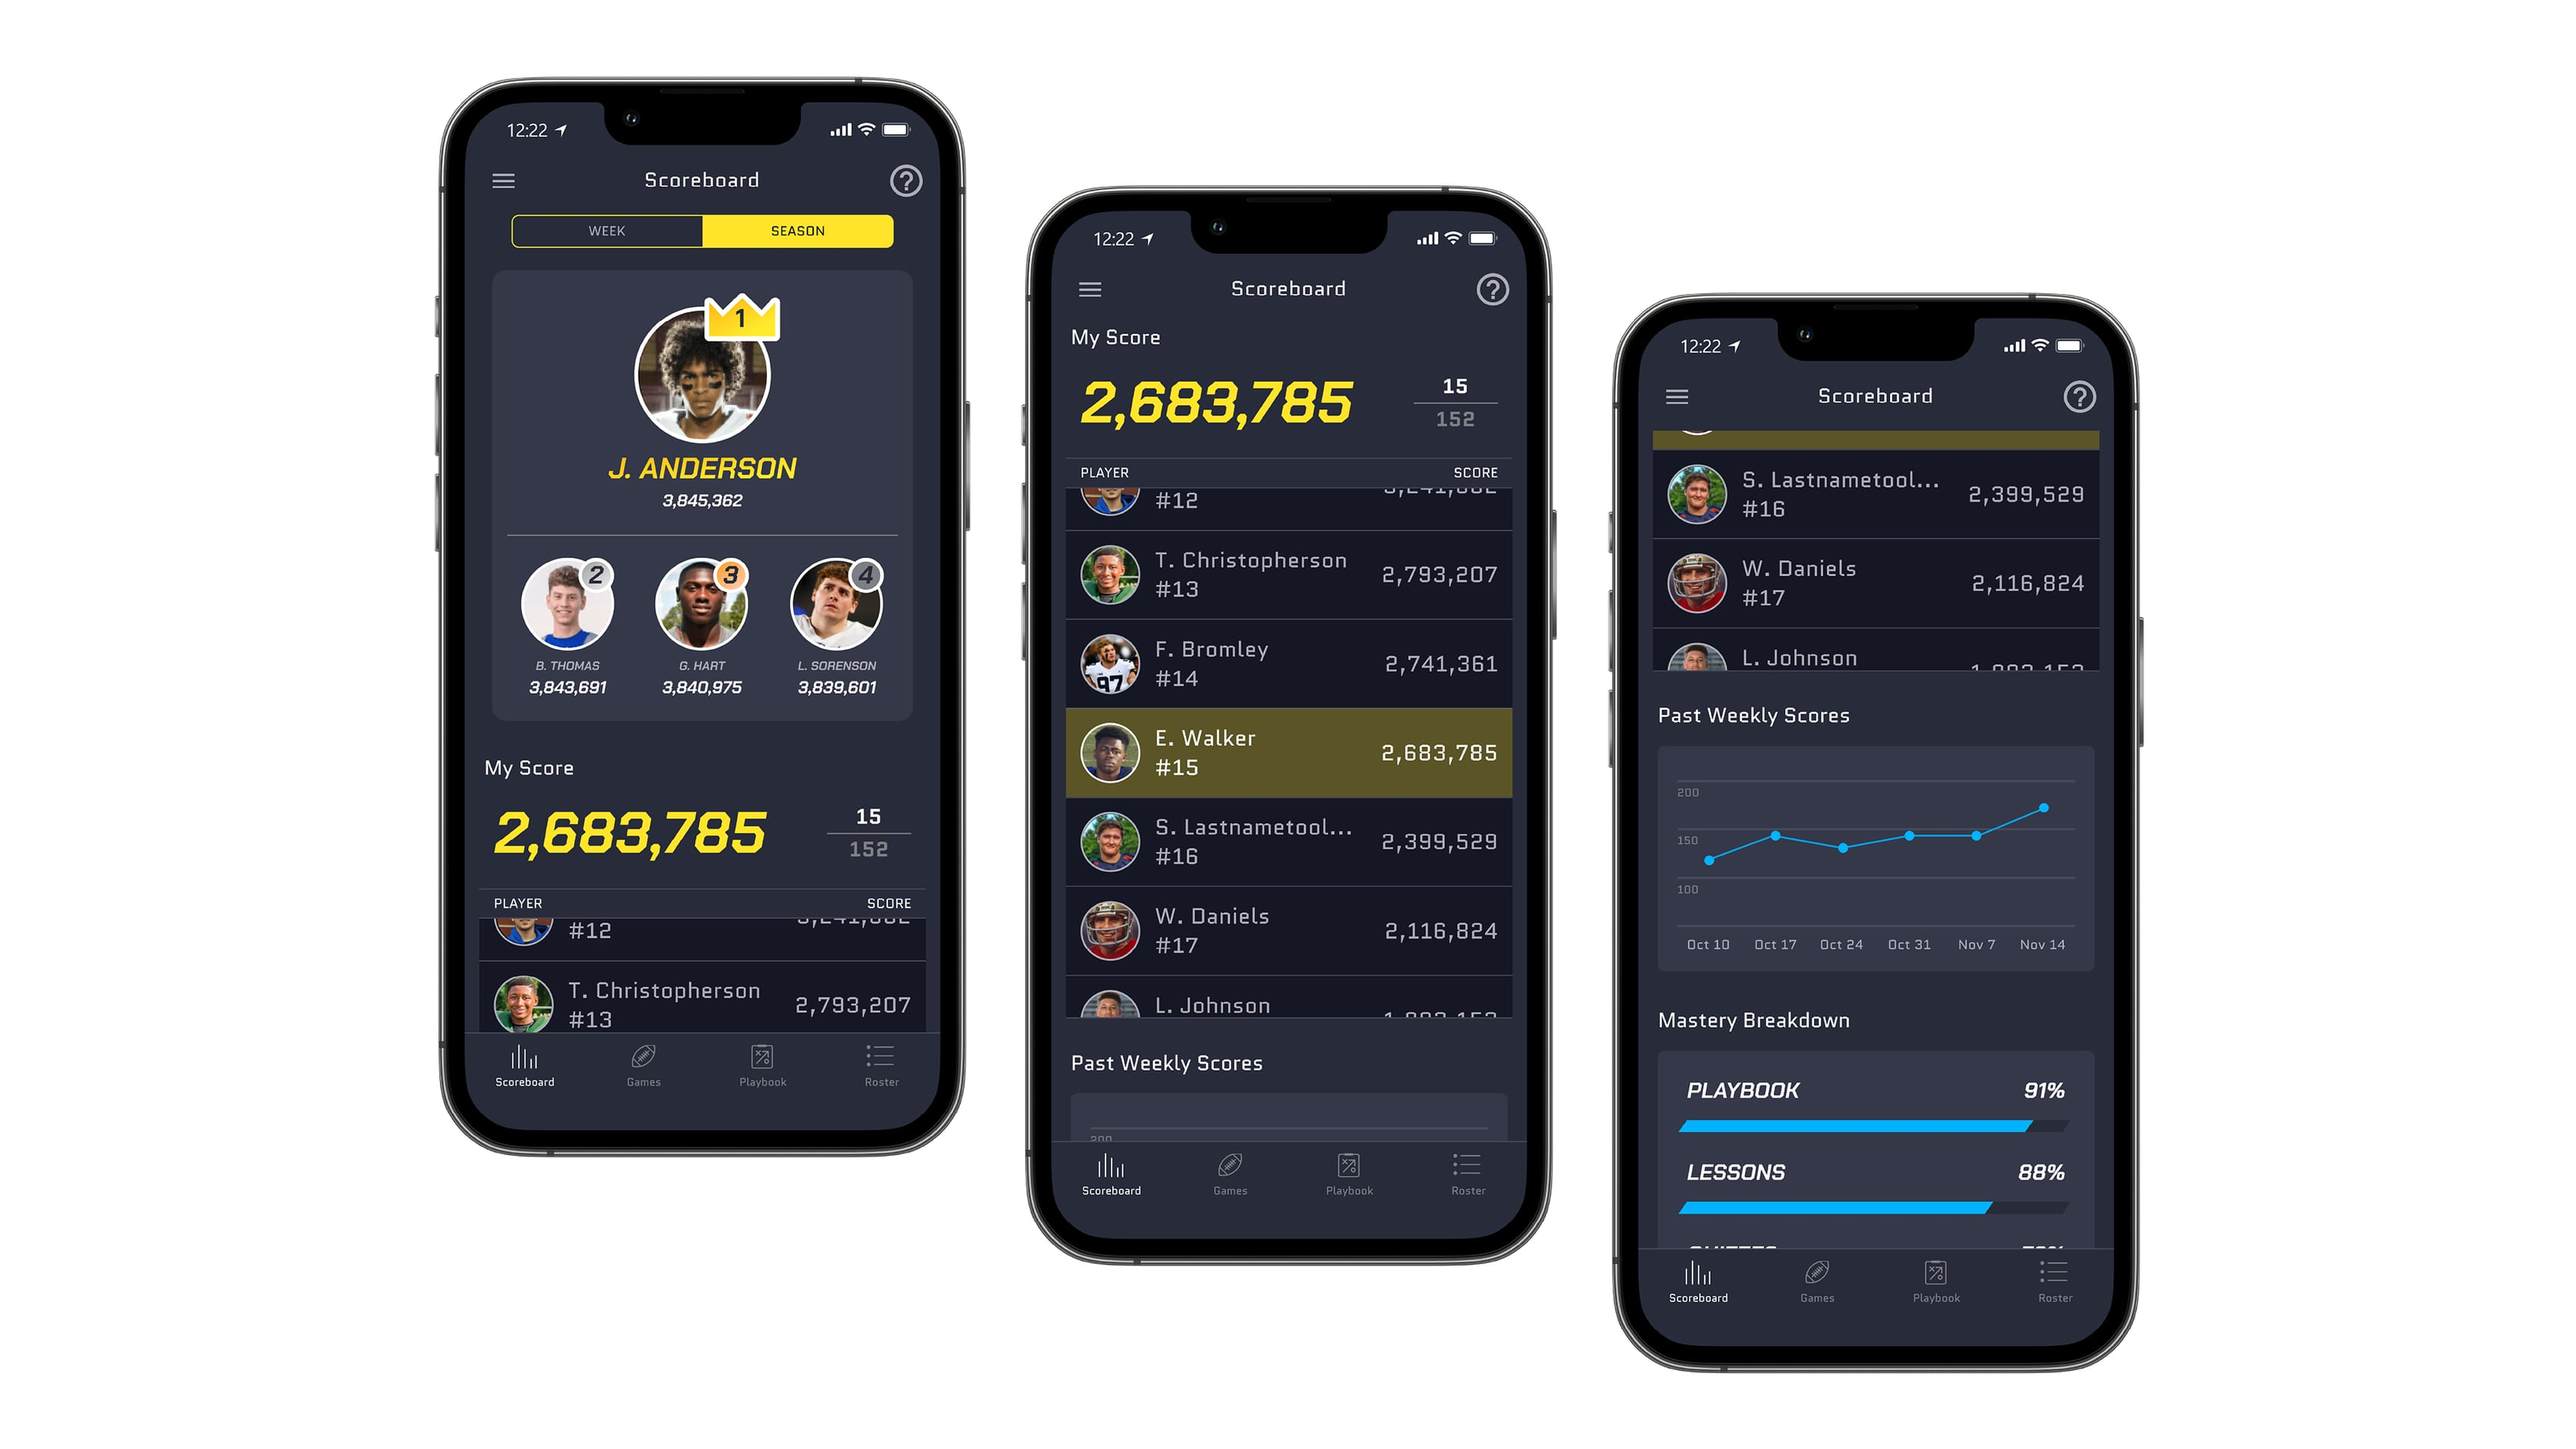
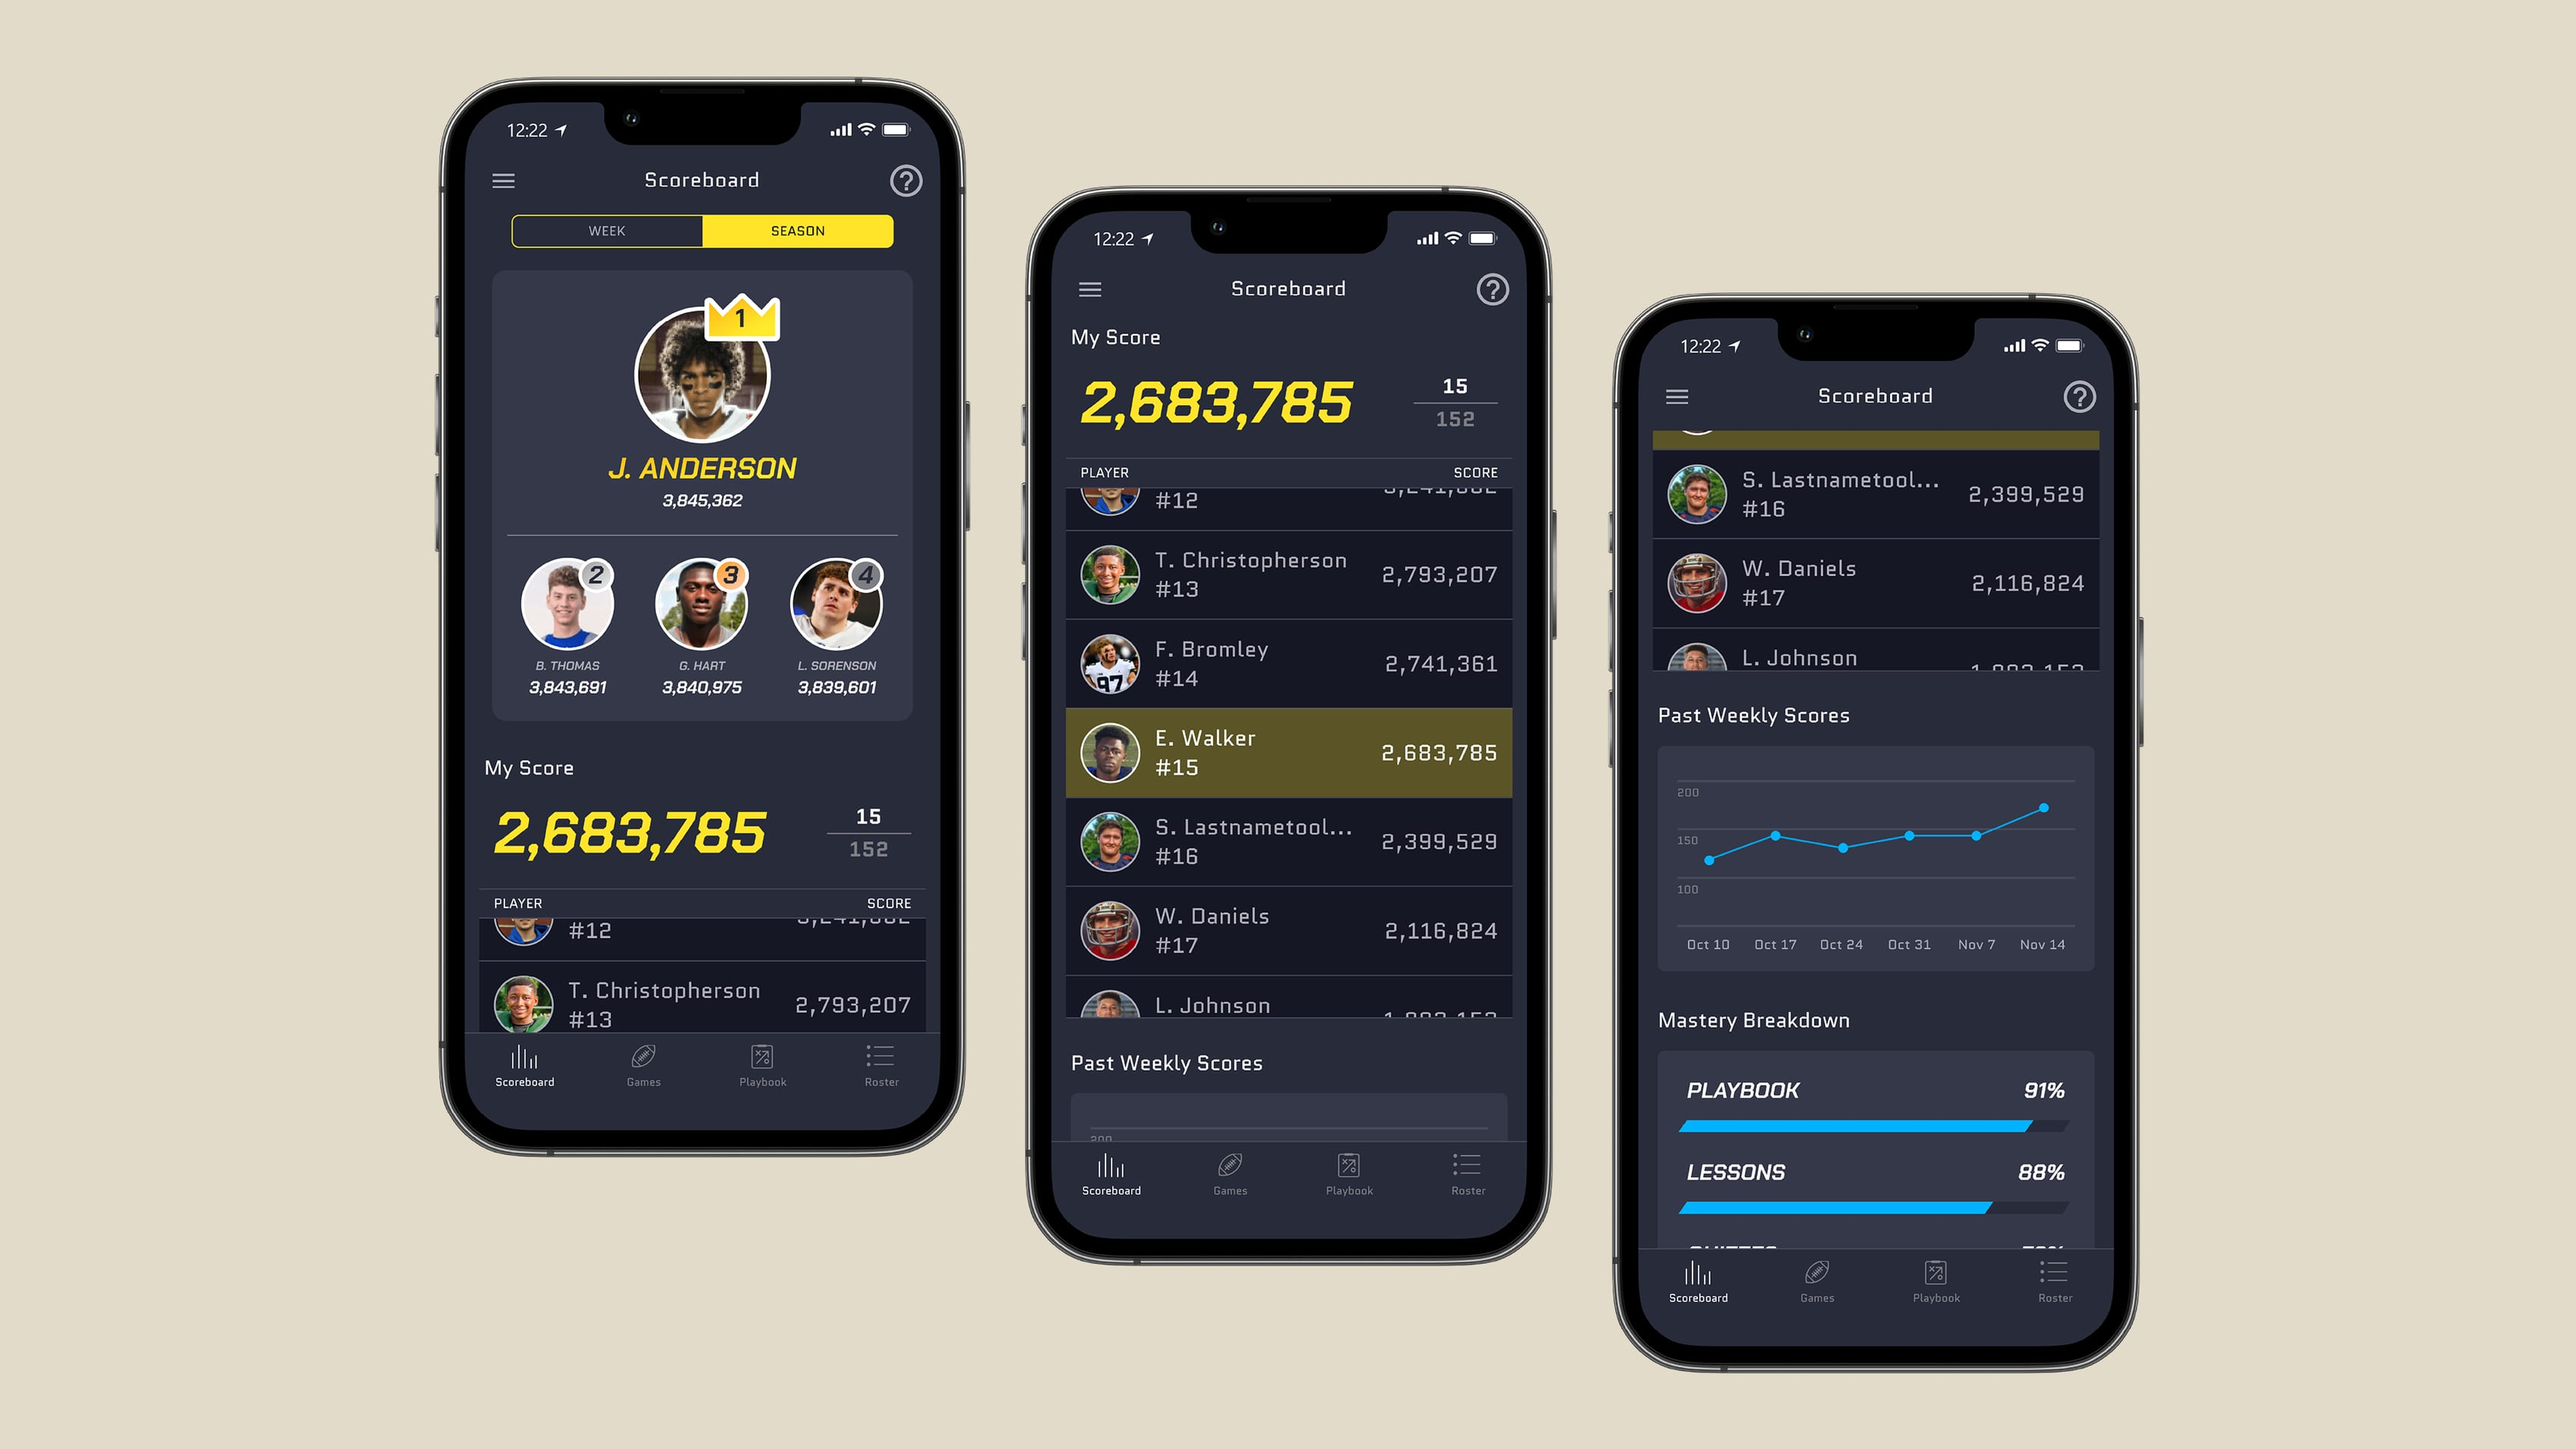
Fix Team Nation Scoring image backgrounds and sizing
- Re-flatten images 1, 3, and 5 against the page's beige surface
  color instead of white, so the transparent margins around the
  device mockups blend into the page instead of showing a white box
- Double the display width of image 2 (project-figure--narrow
  max-width 480px -> 960px) and re-export it at higher resolution
- Add the real captions written for the case study

diff --git a/case-studies/team-nation-scoring.html b/case-studies/team-nation-scoring.html
@@ -56,7 +56,6 @@
 
     <figure class="project-figure project-figure--lightbox container">
       <img src="../images/1_TNScoringHero.jpg" alt="Team Nation coach dashboard showing the Overall Performance view, with a Top 10 leaderboard, a Readiness trend line, a Readiness distribution chart, and a player table">
-      <figcaption>Caption placeholder — replace with real copy.</figcaption>
     </figure>
 
     <div class="container">
@@ -73,7 +72,7 @@
 
     <figure class="project-figure project-figure--lightbox project-figure--narrow container">
       <img src="../images/2_TNScoring.jpg" alt="Marketing graphic showing coach content flowing into gamified drills on mobile, then into player results, with the tagline &quot;Anything you enter in Team Nation gets turned into games for your players&quot;">
-      <figcaption>Caption placeholder — replace with real copy.</figcaption>
+      <figcaption>Many of the coaches that adopted the platform reported a significant increase in player performance.</figcaption>
     </figure>
 
     <div class="container">
@@ -89,7 +88,7 @@
 
     <figure class="project-figure project-figure--lightbox container">
       <img src="../images/3_TNOldScoring.jpg" alt="Old scoring screens showing a New High Score moment where Readiness only rose 0.4 percent, next to an early whiteboard sketch of the scoring formula and a player progress screen stuck at 89 percent Readiness">
-      <figcaption>Caption placeholder — replace with real copy.</figcaption>
+      <figcaption>The original way of calculating player scores resulted in disinterest after a couple of weeks.</figcaption>
     </figure>
 
     <div class="container">
@@ -106,7 +105,7 @@
 
     <figure class="project-figure project-figure--lightbox container">
       <img src="../images/4_TNBrainstorm.jpg" alt="Brainstorm board of sticky notes mapping out how Mastery, Points, and the leaderboard should be calculated, including gamification extras and open questions from stakeholders">
-      <figcaption>Caption placeholder — replace with real copy.</figcaption>
+      <figcaption>Some of the brainstorming I did with the founders to explore other ways of calculating player scores. Of course eventually the simplest option won out.</figcaption>
     </figure>
 
     <div class="container">
@@ -122,7 +121,7 @@
 
     <figure class="project-figure project-figure--lightbox container">
       <img src="../images/5_TNNewScoring.jpg" alt="Redesigned mobile scoreboard showing the top-four spotlight with crowned first place, a player's cumulative points score and season rank, and a past weekly scores trend chart">
-      <figcaption>Caption placeholder — replace with real copy.</figcaption>
+      <figcaption>The new scoring system emphasizes cumulative points to keep players engaged over time. Readiness is still there but serves as a secondary metric for players. Everybody wants the high score.</figcaption>
     </figure>
 
     <div class="container">

diff --git a/styles.css b/styles.css
@@ -775,7 +775,7 @@ a {
 }
 
 .project-figure--narrow {
-  max-width: 480px;
+  max-width: 960px;
   margin-inline: auto;
 }
 
